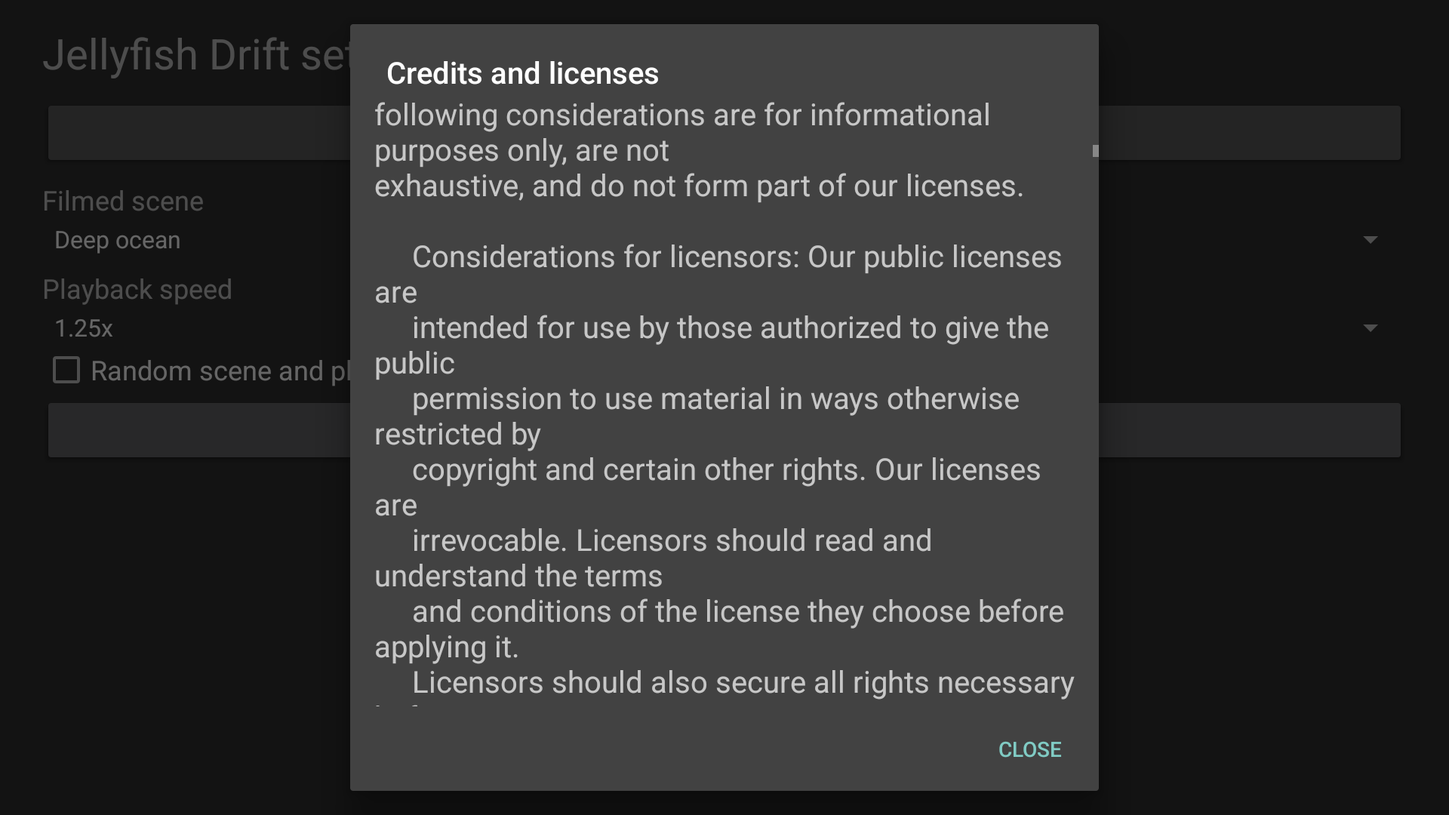
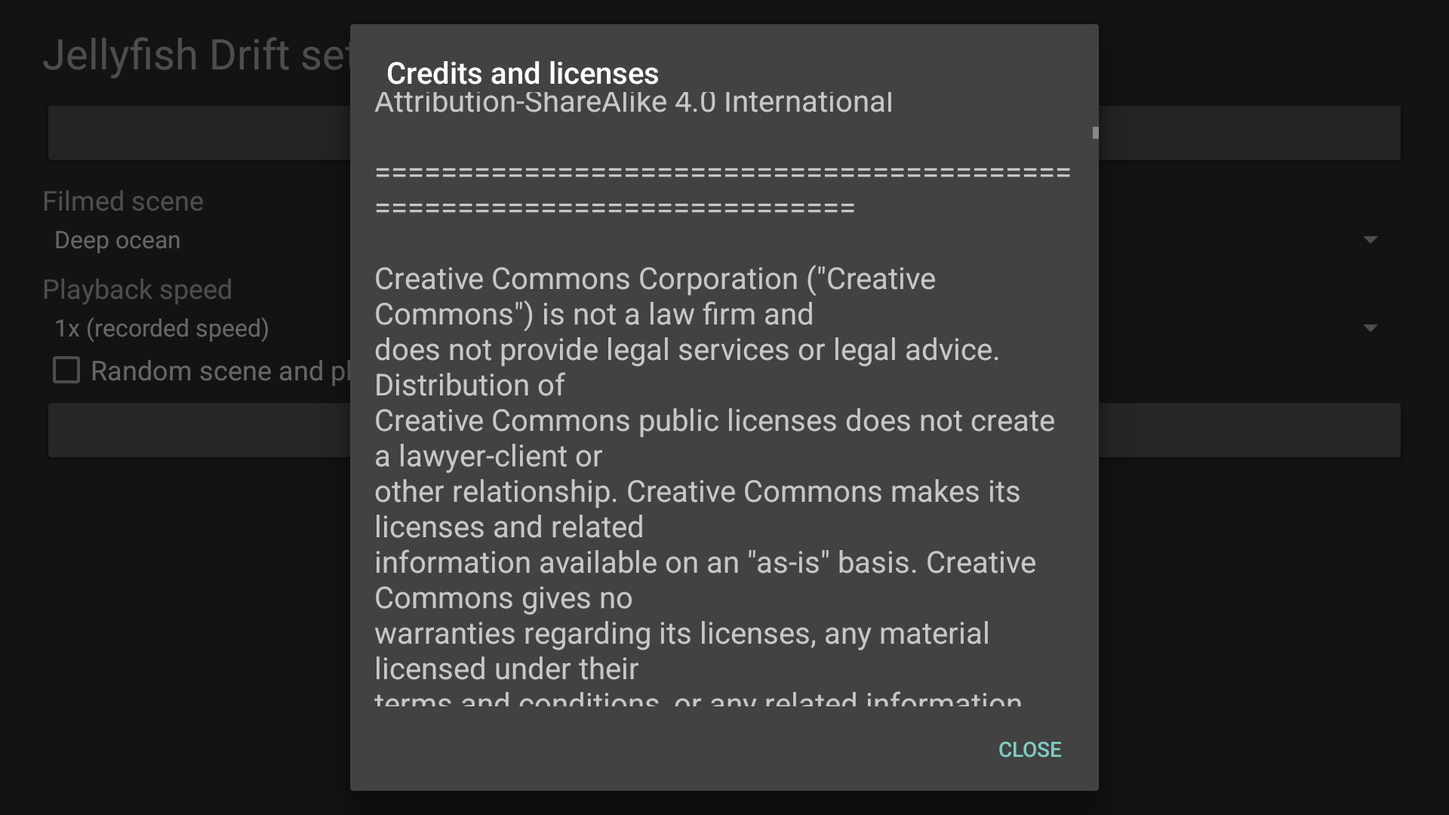
Document filmed major release and current physical Dream evidence

Changed region(s): [[0.25, 0.3056, 0.75, 0.8861], [0.25, 0.0917, 0.7188, 0.275], [0.0312, 0.3972, 0.1875, 0.4278]]

diff --git a/scripts/generate-banners.py b/scripts/generate-banners.py
@@ -33,7 +33,7 @@ def banner(theme, mobile, still):
     tagline_y, tagline_size = (106, 13) if mobile else (111, 14)
     pill_y = 130
     illustration = 'translate(86 202) scale(1.08)' if mobile else 'translate(570 36)'
-    labels = [('Filmed scenes', 92, '#60a5fa', '#eff6ff', '#1e40af'), ('Offline', 64, '#4ade80', '#f0fdf4', '#166534'), ('Playback speed', 104, '#a78bfa', '#f5f3ff', '#6d28d9')]
+    labels = [('Filmed scenes', 92, '#60a5fa', '#eff6ff', '#1e40af'), ('Offline', 64, '#4ade80', '#f0fdf4', '#166534'), ('No tracking or analytics', 144, '#a78bfa', '#f5f3ff', '#6d28d9')]
     pills = []
     x = 20 if mobile else 40
     for label, w, accent, light, text in labels:
@@ -41,7 +41,7 @@ def banner(theme, mobile, still):
         pills.append(f'<rect x="{x}" y="{pill_y}" width="{w}" height="22" rx="11" fill="{fill}" stroke="{accent}" stroke-width=".8"/><text x="{x+w/2}" y="{pill_y+14}" fill="{ink}">{label}</text>')
         x += w + 8
     result = f'''<svg xmlns="http://www.w3.org/2000/svg" width="{width}" height="{height}" viewBox="0 0 {width} {height}" role="img" aria-labelledby="title desc">
-<title id="title">Jellyfish Drift</title><desc id="desc">Real filmed jellyfish scenes with offline playback and playback speed controls. The illustration is decorative.</desc>
+<title id="title">Jellyfish Drift</title><desc id="desc">Real filmed jellyfish scenes with offline playback, no tracking or analytics. The illustration is decorative.</desc>
 {'' if still else STYLE}
 <defs><linearGradient id="background" x2="1" y2="1"><stop stop-color="#0c0a09"/><stop offset="1" stop-color="#1c1917"/></linearGradient><radialGradient id="bell" cx="38%" cy="25%"><stop stop-color="#dbeafe" stop-opacity=".9"/><stop offset="1" stop-color="#6366f1" stop-opacity=".25"/></radialGradient></defs>
 <rect width="{width}" height="{height}" rx="16" fill="{background}" stroke="{'#292524' if dark else '#e5e7eb'}"/>

diff --git a/docs/VERIFICATION.md b/docs/VERIFICATION.md
@@ -1,6 +1,6 @@
 # Device verification
 
-The 2.0 filmed candidate is isolated and has not been released or accepted as a production replacement. A build or preview does not prove vendor idle activation, sustained performance, or visual quality.
+Version 2.0 passed the physical Dream and presentation gates described below. These checks do not imply user visual acceptance, sustained thermal behavior, native 4K detail, or automatic idle activation on other platforms.
 
 ## Current candidate
 
@@ -24,7 +24,7 @@ Native Preview recorded Blue aquarium for 35.03 seconds and Deep ocean for 40.01
 
 The settings screen showed only scene, playback speed, and randomization. Preview opened from the initially focused button and returned with Back. Slow and fast scene previews were captured. D-pad navigation reached Credits, the full offline notice and license text scrolled, and Back closed the dialog. Home released the player.
 
-A follow-up verified normal task resume: Home released the player, reopening the task resumed Preview with a live 1920x1080 decoder, and Back returned to Settings. A separate remote-input check inspected fresh native focus XML at every step, selected Blue aquarium and 1.25x from their actual dropdowns, verified persisted values through the provider, and opened the corresponding Preview from the confirmed focused button. The dialog's explicit Close button and decoder fallback failure paths remain untested; Back closure passed.
+A follow-up verified normal task resume: Home released the player, reopening the task resumed Preview with a live 1920x1080 decoder, and Back returned to Settings. A separate remote-input check inspected fresh native focus XML at every step, selected Blue aquarium and 1.25x from their actual dropdowns, verified persisted values through the provider, and opened the corresponding Preview from the confirmed focused button. Back closure passed. A later code 4 check activated the explicit Close button by a native tap after D-pad opening and scrolling; D-pad navigation to Close is not claimed. Decoder fallback failure paths remain untested.
 
 The helper restored exact Jellyfish, Aquarium, Aquarium Live, UI backup, protection-service, and system settings. It left Home in the foreground without changing Dream selection. No app data was cleared or uninstalled.
 
@@ -34,7 +34,7 @@ The blue recording has a visible editorial loop dissolve and repeats every 16 se
 
 A separate package using the original blue video established real Fire TV Dream binding and approximately 30 settled presentations per second. That prototype is not this production candidate and cannot establish the current dark recording, playback speeds, settings, or lifecycle behavior.
 
-The current production candidate still needs actual bound-Dream validation and physical presentation measurements at all supported speeds, plus final moving quality acceptance. Sustained thermal behavior and physical Google TV support remain unverified. Historical Canvas or shader screenshots in the repository are not evidence of the filmed candidate.
+The code 4 candidate passed actual bound-Dream validation and physical presentation measurements for both scenes at 0.9x and 1.25x. Physical functional review passed; owner visual acceptance is not claimed. Sustained thermal behavior and physical Google TV support remain unverified. Historical Canvas or shader screenshots in the repository are not evidence of the filmed candidate.
 
 ## Provider persistence defect and code 4
 
@@ -46,8 +46,25 @@ Code 4 changes provider writes from asynchronous `apply()` to synchronous `commi
 
 On the physical Fire TV, both the installed code 3 build and the same-signer code 4 update passed four process-death cases each: two write-then-death cases and two confirmed-death-then-write cases. Each case checked scene, speed, randomization, and preservation of the other three raw values. Both runs restored the original six values exactly. The surrounding fresh UI export, eleven OS values, available Aquarium settings, external backup/import bytes, protection service, VPN, actual Dream, and prior sleep state also remained exact. No wake key, activity, Dream selection, or OS setting was changed. Aquarium Live's installed build did not expose its settings provider, so its raw preferences could not be verified; comparing provider error text is not preference preservation evidence.
 
-The earlier dark-transition failure did not reproduce in either build. The comparison therefore establishes the tested persistence behavior, not that asynchronous storage caused the earlier failure. Command stdout/stderr and failed cases remain part of the evidence. All four actual Dream scene/speed cases still need a successful code 4 run. Videos, preview image, renderer source, and other resources are byte-identical to code 3; only the provider, version code, and media metadata changed.
+The earlier dark-transition failure did not reproduce in either build. The comparison therefore establishes the tested persistence behavior, not that asynchronous storage caused the earlier failure. Command stdout/stderr and failed cases remain part of the evidence. A later normal foreground Settings run passed all four actual Dream scene/speed cases, as recorded below. Videos, preview image, renderer source, and other resources are byte-identical to code 3; only the provider, version code, and media metadata changed.
 
 A subsequent code 4 actual-Dream run passed Blue aquarium at 0.9x and 1.25x, with minimum settled presentation windows of 26.904 and 36.716 presents/s. Deep ocean setup stopped on an explicit content-command error: Android temporarily could not find the Jellyfish settings provider during immediate readback after a forced process stop. No dark-scene pass is claimed. Cleanup restored the fresh 46-value UI export, eleven OS values, available provider values, external bytes, protection/VPN, selection, and prior sleep state. Aquarium Live's installed package version and APK hash also remained unchanged, without a claim about its unreadable raw preferences.
 
 Read-only device log collection then identified the provider process being killed by Android's low-memory killer immediately before the failed readback. The recorded reason was a breached file-cache threshold; further restarted provider processes were also evicted. The collected target history contained no corresponding Java fatal exception or native SIGSEGV. This is evidence of provider unavailability under memory pressure, not proof of corrupted preferences. The next functional gate uses the normal foreground Settings activity, fresh scene selection, and a newly bound Dream; the separate process-death results remain independent.
+
+## Code 4 normal Settings and Dream route
+
+A final physical run configured each scene from the resumed foreground Settings activity, then started the selected non-test Dream. Each case settled for 40 seconds before six actual SurfaceFlinger presentation windows spanning the next 15 seconds. No screen recording ran during measurement.
+
+| Scene | Playback speed | Minimum measured presents/s |
+| --- | --- | --- |
+| Blue aquarium | 0.9x | 26.904 |
+| Blue aquarium | 1.25x | 36.716 |
+| Deep ocean | 0.9x | 26.904 |
+| Deep ocean | 1.25x | 37.241 |
+
+All four cases bound the actual normal Dream and exited with Back. These figures describe the named SurfaceView presentation timestamps, not nominal display refresh, capture-video FPS, native 4K detail, or sustained thermal performance. The native settings and player used the frozen signed code 4 artifact above.
+
+Cleanup restored the fresh 46-value UI export, eleven OS values, Aquarium's sixteen values, Jellyfish's six values, external backup/import bytes, protection/VPN, saved selections, and prior sleep state. The actual Dream baseline was unbound and remained unbound. The absent Aquarium Live settings provider remained an explicit coverage limit. No historical layout or settings export was restored.
+
+A volunteer with a physical Google TV or another untested TV is needed to report its model, OS/API, display and actual surface resolution, Dream activation, remote exit behavior, scene/speed settings, and observed playback. No compatibility result is inferred from the emulator.

diff --git a/README.md b/README.md
@@ -1,6 +1,6 @@
 <p align="center">
-  <a href="https://github.com/jeremykenedy/jellyfish-drift#gh-light-mode-only"><picture><source media="(max-width: 600px) and (prefers-reduced-motion: reduce)" srcset="art/banner-mobile-still-light.06fdb2435437.svg"><source media="(prefers-reduced-motion: reduce)" srcset="art/banner-still-light.180e4f37264f.svg"><source media="(max-width: 600px)" srcset="art/banner-mobile-light.3c05d0ee479f.svg"><img src="art/banner-light.ed9fad3d48c0.svg#gh-light-mode-only" alt="Jellyfish Drift" width="800"></picture></a>
-  <a href="https://github.com/jeremykenedy/jellyfish-drift#gh-dark-mode-only"><picture><source media="(max-width: 600px) and (prefers-reduced-motion: reduce)" srcset="art/banner-mobile-still-dark.657615bff5d9.svg"><source media="(prefers-reduced-motion: reduce)" srcset="art/banner-still-dark.f91bb9482be9.svg"><source media="(max-width: 600px)" srcset="art/banner-mobile-dark.3d5bdbb5f396.svg"><img src="art/banner-dark.207dad6e5b97.svg#gh-dark-mode-only" alt="Jellyfish Drift" width="800"></picture></a>
+  <a href="https://github.com/jeremykenedy/jellyfish-drift#gh-light-mode-only"><picture><source media="(max-width: 600px) and (prefers-reduced-motion: reduce)" srcset="art/banner-mobile-still-light.c102ec5163ae.svg"><source media="(prefers-reduced-motion: reduce)" srcset="art/banner-still-light.59f20ab6feb7.svg"><source media="(max-width: 600px)" srcset="art/banner-mobile-light.0592a041f1db.svg"><img src="art/banner-light.f4a8883c8e68.svg#gh-light-mode-only" alt="Jellyfish Drift" width="800"></picture></a>
+  <a href="https://github.com/jeremykenedy/jellyfish-drift#gh-dark-mode-only"><picture><source media="(max-width: 600px) and (prefers-reduced-motion: reduce)" srcset="art/banner-mobile-still-dark.25fd0f18787b.svg"><source media="(prefers-reduced-motion: reduce)" srcset="art/banner-still-dark.3b79f1d93f83.svg"><source media="(max-width: 600px)" srcset="art/banner-mobile-dark.9af43dd244c2.svg"><img src="art/banner-dark.f439ce277549.svg#gh-dark-mode-only" alt="Jellyfish Drift" width="800"></picture></a>
 </p>
 
 <p align="center">Real filmed jellyfish scenes for compatible TV screensavers, played entirely offline.</p>
@@ -20,7 +20,9 @@
   <a href="https://github.com/sponsors/jeremykenedy"><img src="https://img.shields.io/badge/Sponsor-jeremykenedy-EA4AAA?logo=githubsponsors&logoColor=white" alt="Sponsor Jeremy Kenedy"></a>
 </p>
 
-**2.0 filmed candidate:** final physical production Dream and presentation checks are pending. The latest published release may use the previous renderer. See the [verification record](docs/VERIFICATION.md).
+Version 2.0 replaces generated jellyfish with two licensed recordings. Scene and speed controls match what the footage can provide. See the [verification record](docs/VERIFICATION.md) for tested behavior and limits.
+
+If you enjoy Jellyfish Drift, show your support by starring the repository.
 
 ## Table of contents
 
@@ -28,6 +30,7 @@
 - [Features](#features)
 - [Requirements](#requirements)
 - [Installation](#installation)
+- [Fire TV Toolkit](#fire-tv-toolkit)
 - [Configuration](#configuration)
 - [Screenshots](#screenshots)
 - [Building and testing](#building-and-testing)
@@ -66,7 +69,32 @@ For the **published release**, connect the TV with ADB and run:
 python3 install.py --serial TV_IP:5555
 ```
 
-The installer verifies the downloaded APK against its release checksum and updates the existing package. It does not automatically select a screensaver. The unreleased 2.0 candidate requires a [local build](docs/BUILDING.md). See [installation and removal](docs/INSTALLATION.md).
+The installer verifies the downloaded APK against its release checksum and updates the existing package. It does not automatically select a screensaver. See [installation and removal](docs/INSTALLATION.md).
+
+## Fire TV Toolkit
+
+[Fire TV Toolkit](https://github.com/jeremykenedy/fire-tv-toolkit) provides guided TV setup and screensaver management. Set up its CLI first:
+
+```bash
+git clone https://github.com/jeremykenedy/fire-tv-toolkit.git
+cd fire-tv-toolkit
+node setup.js
+```
+
+Use these commands for the published Jellyfish Drift release:
+
+```bash
+# Install
+firetv-screensavers --install=jellyfish-drift --yes
+# Select separately
+screensaver --set=jellyfish-drift
+# Update the installed package
+firetv-screensavers --install=jellyfish-drift --yes
+# Remove the app and its saved preferences
+firetv-screensavers --uninstall=jellyfish-drift --force
+```
+
+Toolkit also manages launcher choices, sleep/screensaver timers, and supported settings protection. Installation does not select a screensaver. Configure filmed scenes in Jellyfish Drift's native settings; see the [integration contract](docs/INTEGRATION.md).
 
 ## Configuration
 
@@ -75,11 +103,11 @@ Open Jellyfish Drift from the TV launcher to choose a recording or playback spee
 ## Screenshots
 
 <table>
-<tr><td><img src="art/screenshots/blue-aquarium-native.png" alt="Actual 2.0 native Preview of filmed Aurelia in blue aquarium water" width="100%"></td><td><img src="art/screenshots/deep-ocean-native.png" alt="Actual 2.0 native Preview of filmed Crossota in deep ocean water" width="100%"></td><td><img src="art/screenshots/settings-native.png" alt="Actual native scene and playback speed settings" width="100%"></td></tr>
-<tr><td>Blue aquarium</td><td>Deep ocean</td><td>Native settings</td></tr>
+<tr><td><img src="art/screenshots/blue-slow-physical.png" alt="Actual code 4 physical Fire TV Dream of filmed Aurelia at 0.9x" width="100%"></td><td><img src="art/screenshots/deep-slow-physical.png" alt="Actual code 4 physical Fire TV Dream of filmed Crossota at 0.9x" width="100%"></td><td><img src="art/screenshots/deep-fast-physical.png" alt="Actual code 4 physical Fire TV Dream of filmed Crossota at 1.25x" width="100%"></td></tr>
+<tr><td>Blue aquarium at 0.9x</td><td>Deep ocean at 0.9x</td><td>Deep ocean at 1.25x</td></tr>
 </table>
 
-Current Android TV API 34 emulator captures of the signed 2.0 candidate. These are native Preview images, not physical Fire TV or 4K evidence. The [complete gallery](docs/SCREENSHOTS.md) includes credits, speed choices, and resumed playback.
+Actual physical Fire TV captures of the signed 2.0.0/code 4 candidate in a bound non-test Dream. These 1920x1080 images do not establish native 4K source detail. The [complete gallery](docs/SCREENSHOTS.md) includes credits, speed choices, and resumed playback.
 
 ## Building and testing
 
@@ -95,6 +123,7 @@ The build requires Android SDK platform 36, build-tools 36.0.0, JDK 17 or later,
 ## Documentation
 
 - [Configuration and migration](docs/CONFIGURATION.md)
+- [Host integration contract](docs/INTEGRATION.md)
 - [Screenshots](docs/SCREENSHOTS.md)
 - [Installation, update, and removal](docs/INSTALLATION.md)
 - [Building from source](docs/BUILDING.md)
@@ -104,6 +133,7 @@ The build requires Android SDK platform 36, build-tools 36.0.0, JDK 17 or later,
 - [CI](docs/CI.md)
 - [Troubleshooting](docs/TROUBLESHOOTING.md)
 - [Release process](docs/RELEASING.md)
+- [Version 2.0.0 upgrade guide](docs/releases/v2.0.0.md)
 - [Historical version 1.0.0 notes](docs/releases/v1.0.0.md)
 
 ## License

diff --git a/docs/releases/v2.0.0.md b/docs/releases/v2.0.0.md
@@ -1,0 +1,54 @@
+# Jellyfish Drift 2.0.0
+
+Version 2.0 replaces the generated jellyfish renderer with two licensed, silent recordings: Blue aquarium and Deep ocean. This is a major release because the effective settings contract changes. The package, production signer, Android API floor, and all six saved raw preference values remain stable.
+
+## Upgrade guide
+
+The supported public upgrade path is from v1.0.0. Android 6.0/API 23 remains the minimum; the Android version code increases from 1 to 4. Python 3 and ADB are needed only for the standalone installer. No runtime dependency, account, network permission, or content download is added.
+
+With the target TV connected, run:
+
+```bash
+python3 install.py --serial TV_IP:5555
+```
+
+The installer downloads the published APK and checksum and replaces the existing package. Keep the app installed during the upgrade to preserve preferences. No database migration, environment change, cache clear, or worker restart is needed. Installation does not change the selected Dream or system timers.
+
+Open Jellyfish Drift settings, choose the desired recording and playback speed, and try Preview before selecting it as the active screensaver. Existing density, species, and light-ray values remain stored but no longer change the scene. Host editors should use the current three-row schema rather than cached version 1 controls.
+
+To stop using version 2, select another installed screensaver while keeping Jellyfish Drift and its preferences. Android can reject signed APK downgrades; a data-preserving downgrade to version 1 is not promised. Uninstalling deletes saved app data. Keep a copy of important settings before any removal.
+
+## Breaking changes
+
+| Previous behavior | Version 2 behavior | Upgrade action |
+| --- | --- | --- |
+| Generated creatures, configurable density, species, and rays | Fixed animals and lighting from each recording | Choose a filmed scene; do not expect the three preserved legacy values to affect it |
+| Dark and light generated water | Deep ocean Crossota and Blue aquarium Aurelia recordings | Recheck the selected recording |
+| Simulated swimming speed | Actual playback at 0.9x, 1x, or 1.25x | Select the preferred playback rate |
+| Randomization included generated creature controls | Randomization chooses only scene and playback speed | Update host option descriptions |
+
+The six raw provider values remain validated and readable. Only scene, speed, and randomization appear in the effective schema and native settings.
+
+## Major changes
+
+Both Preview and DreamService use the same offline MediaPlayer lifecycle, with 1080p H264 and a 720p fallback. Playback stops and releases resources when the view stops or its surface is destroyed. Normal task resume restores playback. No words, agency titles, logos, or watermarks are rendered in the selected scenes.
+
+Credits and full licenses are available offline in native settings. Aurelia footage and derived images retain CC BY-SA 4.0; credited NOAA footage uses its source public-domain terms. Application code remains Apache-2.0.
+
+## Minor changes and fixes
+
+Provider updates return success only after a synchronous saved-preference commit. Native old/new process-death comparisons passed, but did not reproduce the earlier transition failure. Device logs identified low-memory eviction of a background provider; the functional configuration gate uses the normal foreground Settings route.
+
+Formatter paths and coverage thresholds now check the actual project files and require full line and branch coverage for the two pure settings classes. The installer retains checksum and download validation.
+
+## Verification and limits
+
+Local tests, privacy, style, documentation, and coverage checks passed. The pure Java classes cover 25/25 lines and 34/34 branches. Twenty-four installer tests passed. Actual Android TV API 34 checks covered remote scene/speed selection, Preview, resume, and offline Credits. Close-button activation used a native tap; Back closure also passed.
+
+The final signed code 4 artifact passed four actual non-test Dream cases on a physical Fire TV API 30. Minimum settled presentation windows were 26.904/36.716 presents/s for Blue aquarium at 0.9x/1.25x and 26.904/37.241 for Deep ocean. No screen recording ran during those measurements. Fresh app, UI, OS, external-file, guard/VPN, and sleep state were restored. The installed Aquarium Live build had no readable provider, so its raw preferences were not verified.
+
+The recordings repeat every 16 or approximately 19 seconds, with editorial dissolves. Crossota also has a source camera-view transition. These are recorded animals, not an interactive simulation. Physical Google TV, sustained thermal behavior, automatic idle activation across vendors, decoder failure fallback, and native 4K source detail remain unverified. Functional and moving reviews do not imply owner visual acceptance.
+
+See [configuration](../CONFIGURATION.md), [verification](../VERIFICATION.md), [current captures](../SCREENSHOTS.md), and [media notices](../../assets/NOTICE.txt).
+
+Comparison: [v1.0.0...v2.0.0](https://github.com/jeremykenedy/jellyfish-drift/compare/v1.0.0...v2.0.0).

diff --git a/docs/SCREENSHOTS.md b/docs/SCREENSHOTS.md
@@ -1,14 +1,23 @@
 # Screenshots
 
[1 lines of base64/hex data omitted]
+## Physical Fire TV, code 4
+
[1 lines of base64/hex data omitted]
 
 <table>
-<tr><td><img src="../art/screenshots/blue-aquarium-native.png" alt="Filmed Aurelia in native Blue aquarium Preview" width="100%"></td><td><img src="../art/screenshots/deep-ocean-native.png" alt="Deinterlaced Crossota footage in native Deep ocean Preview" width="100%"></td><td><img src="../art/screenshots/settings-native.png" alt="Actual remote-selected Blue aquarium and 1.25x settings" width="100%"></td></tr>
-<tr><td>Blue aquarium at recorded speed</td><td>Deep ocean at recorded speed</td><td>Settings after actual D-pad selection</td></tr>
-<tr><td><img src="../art/screenshots/credits-native.png" alt="Offline source attribution and licenses dialog" width="100%"></td><td><img src="../art/screenshots/credits-scrolled-native.png" alt="License dialog after remote scrolling" width="100%"></td><td><img src="../art/screenshots/blue-fast-native.png" alt="Actual Blue aquarium Preview after selecting 1.25x with the remote" width="100%"></td></tr>
-<tr><td>Credits outside the scene</td><td>Scrollable full license text</td><td>Blue aquarium at 1.25x</td></tr>
-<tr><td><img src="../art/screenshots/deep-slow-native.png" alt="Native Deep ocean Preview with 0.9x playback" width="100%"></td><td><img src="../art/screenshots/deep-fast-native.png" alt="Native Deep ocean Preview with 1.25x playback" width="100%"></td><td><img src="../art/screenshots/resumed-native.png" alt="Actual native Preview after Home and task resume" width="100%"></td></tr>
-<tr><td>Deep ocean at 0.9x</td><td>Deep ocean at 1.25x</td><td>Playback resumed after Home</td></tr>
+<tr><td><img src="../art/screenshots/blue-slow-physical.png" alt="Physical non-test Dream of Blue aquarium at 0.9x" width="100%"></td><td><img src="../art/screenshots/blue-fast-physical.png" alt="Physical non-test Dream of Blue aquarium at 1.25x" width="100%"></td><td><img src="../art/screenshots/deep-slow-physical.png" alt="Physical non-test Dream of Deep ocean at 0.9x" width="100%"></td></tr>
+<tr><td>Blue aquarium at 0.9x</td><td>Blue aquarium at 1.25x</td><td>Deep ocean at 0.9x</td></tr>
+</table>
+
+[Deep ocean at 1.25x: full physical capture](../art/screenshots/deep-fast-physical.png).
+
+## Android TV settings, code 4
+
+These actual 1920x1080 Android TV API 34 captures use the same signed code 4 APK. D-pad navigation opened and scrolled Credits. The explicit Close button was activated by a native tap; D-pad navigation to Close is not claimed.
+
+<table>
+<tr><td><img src="../art/screenshots/settings-native.png" alt="Current code 4 native settings after closing Credits" width="100%"></td><td><img src="../art/screenshots/credits-native.png" alt="Current code 4 offline source notices and licenses" width="100%"></td><td><img src="../art/screenshots/credits-scrolled-native.png" alt="Current code 4 license text after native D-pad scrolling" width="100%"></td></tr>
+<tr><td>Scene and playback controls</td><td>Credits outside the scene</td><td>Scrollable full license text</td></tr>
 </table>
 
 Capture dates, hashes, platform, and exact candidate are recorded in [capture provenance](../art/screenshots/sources.json). Blue aquarium images remain CC BY-SA 4.0, with credit to Eric Polk. Deep ocean images derive from credited NOAA Ocean Exploration footage. Full attribution, edits, and limitations are in the [media notices](../assets/NOTICE.txt).

diff --git a/docs/INTEGRATION.md b/docs/INTEGRATION.md
@@ -1,0 +1,23 @@
+# Host integration
+
+Version 2.0 uses filmed scenes. Hosts must verify the published release, checksum, bytes, and signing identity before replacing their pinned metadata.
+
+| Field | Value |
+| --- | --- |
+| Saver ID | `jellyfish-drift` |
+| Repository | `jeremykenedy/jellyfish-drift` |
+| Package | `com.jeremykenedy.jellyfishdrift` |
+| Dream | `com.jeremykenedy.jellyfishdrift/.JellyfishDreamService` |
+| Native settings | `com.jeremykenedy.jellyfishdrift/.SettingsActivity` |
+| Preview | `com.jeremykenedy.jellyfishdrift/.PreviewActivity` |
+| Release files | `jellyfish-drift.apk`, `jellyfish-drift.apk.sha256` |
+| Settings schema | `content://com.jeremykenedy.jellyfishdrift.settings/schema` |
+| Saved values | `content://com.jeremykenedy.jellyfishdrift.settings/settings` |
+
+The effective schema exposes scene, playback speed, and random scene/speed selection. The settings query retains six raw legacy values. Density, species, and light rays are preserved for migration but do not affect filmed playback. Read [configuration](CONFIGURATION.md) before updating a host editor; do not retain controls that imply these inactive values change the footage.
+
+Use actual screenshots from [capture provenance](../art/screenshots/sources.json). Blue aquarium images retain their CC BY-SA 4.0 attribution and license. Deep ocean images use the credited NOAA source terms. Keep all media notices in host distributions.
+
+Toolkit installs the published APK and selects its Dream separately. Its existing `jellyfish-drift` registration can follow a verified new release. Fire TV UI integration must update its pinned release metadata, digest, bytes, and native preview together after publication. A local candidate, repository commit, or source capture is not a published asset contract.
+
+Host settings writes should follow the native foreground Settings route when the target's memory pressure makes a background provider unavailable. Report provider errors explicitly. Do not silently retry an unavailable provider into a successful configuration claim or change process priority to hide it.
